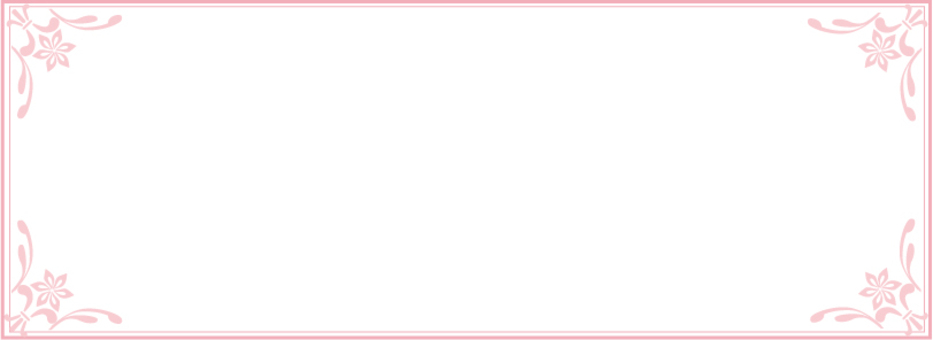
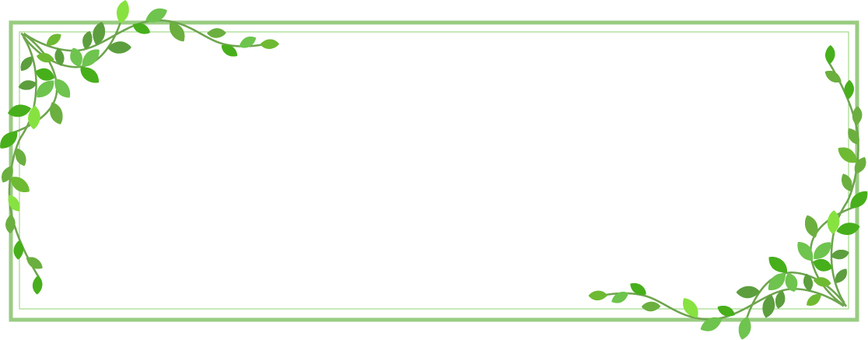
追記20241002

Changed region(s): [[0.0, 0.0, 1.0, 1.0]]

diff --git a/public/css/user_register.css b/public/css/user_register.css
@@ -18,7 +18,7 @@
 
 .btn-warning {
     position: absolute;
-    top: 240%;
+    top: 280%;
     width:50%;
     right: 17%;
     font-size: 40px;

diff --git a/routes/web.php b/routes/web.php
@@ -19,7 +19,7 @@ use App\Http\Controllers\ArticlesController;
 
 Route::get('/', function () {
     return view('welcome');
-});
+})->name('home');
 
 Auth::routes();
 
@@ -42,18 +42,18 @@ Route::get('/clear', [CurriculumsController::class, 'clear'])->name('clear.get')
 // 時間割ページへのルート仮
 Route::get('/jikan-bu', function () {
     return view('jikanbu');
-})->name('jikanbu');
+})->name('jikanbu')->middleware('auth');
 
 // 授業進捗ページへのルート仮
 Route::get('/lessons', function () {
     return view('lessons');
-})->name('lessons');
+})->name('lessons')->middleware('auth');
 
 // プロフィール設定ページへのルート仮
 Route::get('/profile-setting', function () {
     return view('profile-setting');
-})->name('profile-setting');
+})->name('profile-setting')->middleware('auth');
 
 //お知らせページのルート仮
-Route::get('/articles/{id}', [ArticlesController::class, 'show'])->name('articles.show');
+Route::get('/articles/{id}', [ArticlesController::class, 'show'])->name('articles.show')->middleware('auth');
 

diff --git a/app/Http/Controllers/Auth/RegisterController.php b/app/Http/Controllers/Auth/RegisterController.php
@@ -50,7 +50,7 @@ class RegisterController extends Controller
     {
         return Validator::make($data, [
             'name' => ['required', 'string', 'max:30'],
-            'name_kana' => 'required|string|regex:/^[ぁ-んァ-ン]+$/u',
+            'name_kana' => 'required|string|regex:/^[ァ-ヶー]+$/u',
             'email' => ['required', 'string', 'email', 'max:255', 'unique:users'],
             'password' => ['required', 'string', 'min:8', 'confirmed'],
         ]);

diff --git a/app/Http/Controllers/CurriculumsController.php b/app/Http/Controllers/CurriculumsController.php
@@ -14,8 +14,8 @@ class CurriculumsController extends Controller
     public function user_stream(Request $request, $id)
     {
         $userId = auth()->user()->id;
-    
-        // 進捗レコードを取得
+
+        // レコードを取得または作成
         $progress = CurriculumProgress::firstOrCreate(
             ['users_id' => $userId, 'curriculums_id' => $id],
             ['clear_flg' => 0] 

diff --git a/app/Http/Controllers/Auth/LoginController.php b/app/Http/Controllers/Auth/LoginController.php
@@ -36,4 +36,9 @@ class LoginController extends Controller
     {
         $this->middleware('guest')->except('logout');
     }
+
+    protected function loggedOut(\Illuminate\Http\Request $request)
+    {
+        return redirect('/login');  // ログイン画面にリダイレクト
+    }
 }

diff --git a/resources/views/articles/show.blade.php b/resources/views/articles/show.blade.php
@@ -1,0 +1,7 @@
+@extends('layouts.app')
+
+@section('content')
+<h1>お知らせ</h1>
+
+<h2>{{ $articles->article_contents }}</h2>
+@endsection

diff --git a/resources/views/profile-setting.blade.php b/resources/views/profile-setting.blade.php
@@ -1,0 +1,5 @@
+@extends('layouts.app')
+
+@section('content')
+<h1>プロフィール設定</h1>
+@endsection

diff --git a/resources/views/jikanbu.blade.php b/resources/views/jikanbu.blade.php
@@ -1,0 +1,10 @@
+@extends('layouts.app')
+
+@section('content')
+
+<h1>時間割</h1>
+
+
+
+
+@endsection

diff --git a/resources/views/lessons.blade.php b/resources/views/lessons.blade.php
@@ -1,0 +1,6 @@
+@extends('layouts.app')
+
+@section('content')
+
+<h1>授業進捗<h1>
+@endsection
